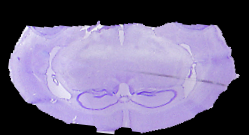
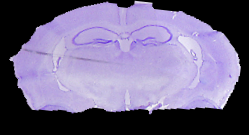
should try to fix the flipping in some images

diff --git a/src/segmentation/rotate_image.py b/src/segmentation/rotate_image.py
@@ -5,7 +5,6 @@ import image_segmentation as seg
 import numpy as np
 from sklearn.decomposition import PCA
 
-
 def align_image(image):
     # Convert the image to grayscale
     gray = cv2.cvtColor(image, cv2.COLOR_BGR2GRAY)
@@ -15,6 +14,8 @@ def align_image(image):
 
     # Use PCA to find the main axis of the pixel distribution
     X = np.column_stack([x_coords, y_coords])
+    
+    # Apply PCA to find the main axis of the pixel distribution
     pca = PCA(n_components=2)
     pca.fit(X)
     main_axis = pca.components_[0]
@@ -22,15 +23,30 @@ def align_image(image):
     # Calculate the angle between the main axis and the x-axis
     angle = np.arctan2(main_axis[1], main_axis[0]) * 180 / np.pi
 
-    # Calculate the center of rotation
-    center = ((image.shape[1]-1)/2, (image.shape[0]-1)/2)
-
     # Rotate the image to align with the x-axis
+    center = ((image.shape[1]-1)/2, (image.shape[0]-1)/2)
     rotation_matrix = cv2.getRotationMatrix2D(center, angle, 1.0)
-    aligned_image = cv2.warpAffine(image, rotation_matrix, (image.shape[1], image.shape[0]), flags=cv2.INTER_LINEAR)
+    aligned_image = cv2.warpAffine(image, rotation_matrix,  (image.shape[1], image.shape[0]), flags=cv2.INTER_LINEAR)
+
+    # Check if the image is reversed
+    if np.sum(aligned_image[0, :, :] - aligned_image[-1, :, :]) > 0:
+        aligned_image = cv2.rotate(aligned_image, cv2.ROTATE_180)
+
+    # Check if the image is upside down
+    if np.sum(aligned_image[:, 0, :] - aligned_image[:, -1, :]) < 0:
+        aligned_image = cv2.rotate(aligned_image, cv2.ROTATE_180)
+
+    # Check if the image is flipped horizontally
+    if np.mean(aligned_image[0, :, :]) < np.mean(aligned_image[-1, :, :]):
+        aligned_image = cv2.flip(aligned_image, 0)
+
+    # Check if the image is flipped vertically
+    if np.mean(aligned_image[:, 0, :]) < np.mean(aligned_image[:, -1, :]):
+        aligned_image = cv2.flip(aligned_image, 1)
 
     return aligned_image
-   
+
+
 path1 = "data/results good"
 
 # Set the path to the folder where you want to save the processed images
